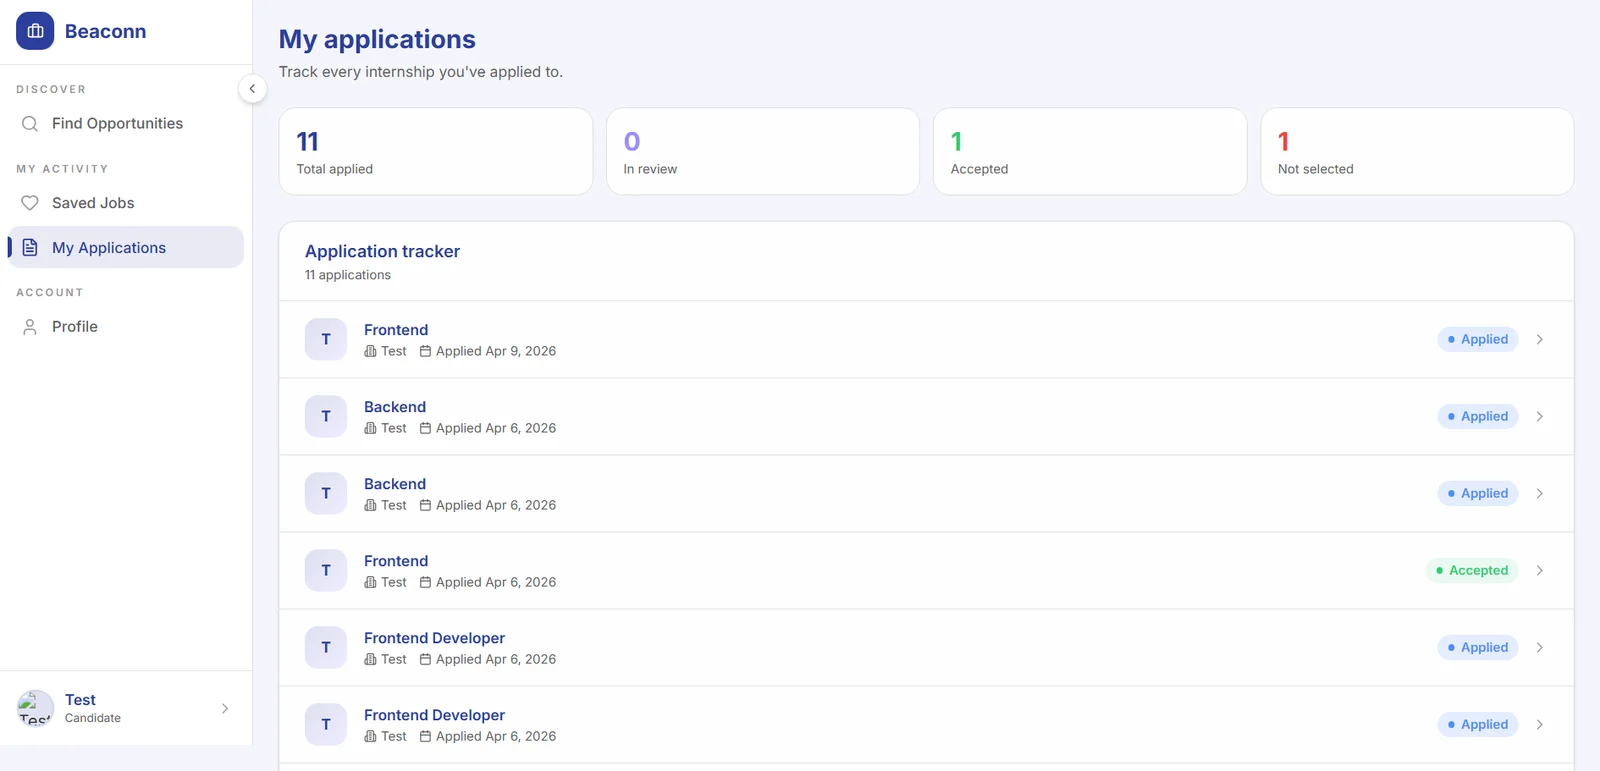
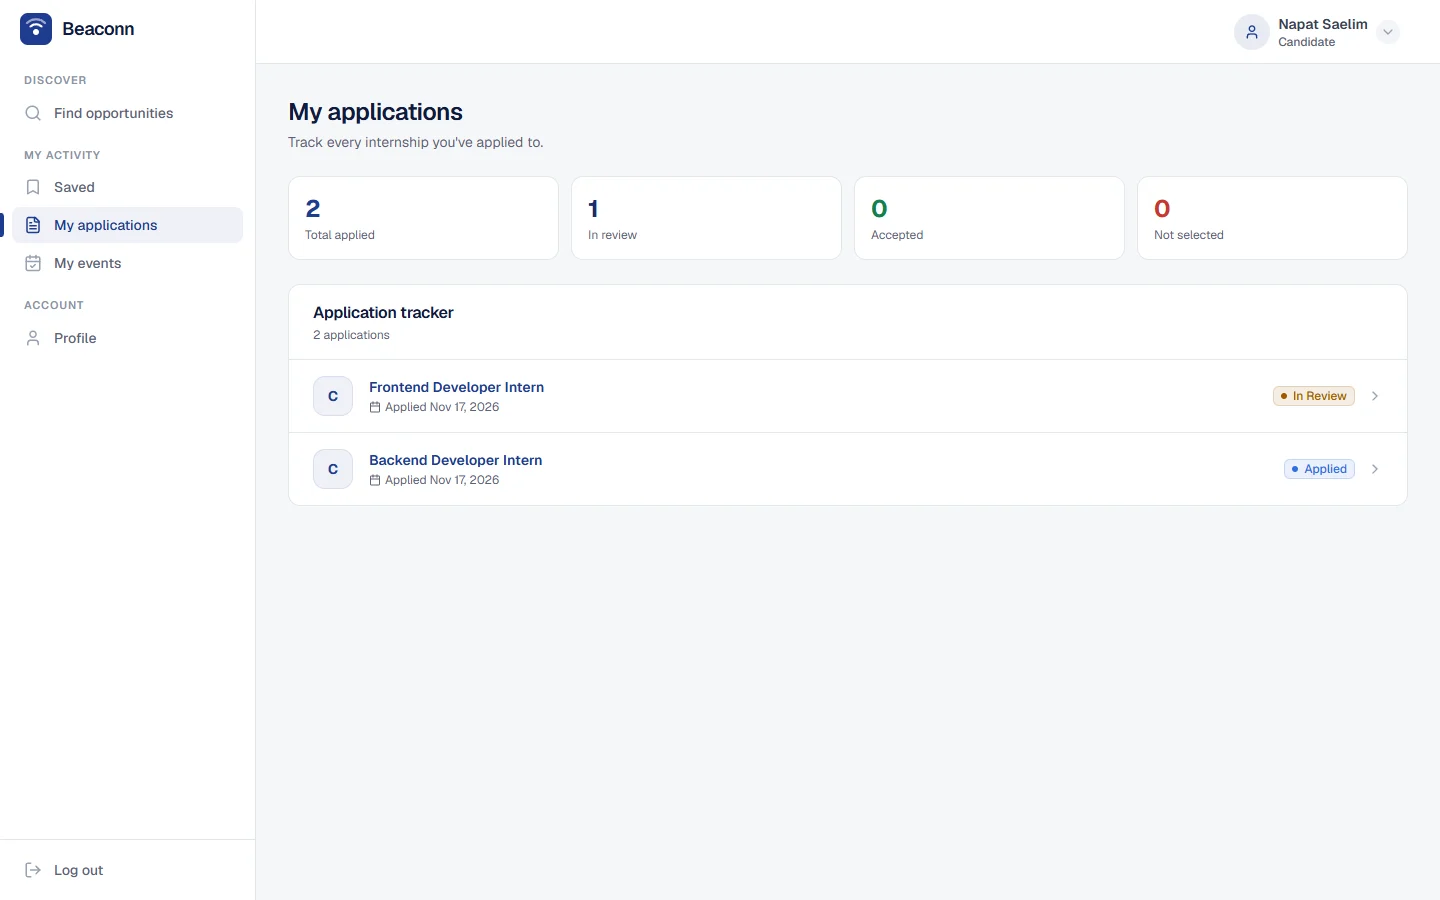
Update Beaconn screenshots to the redesigned live site

diff --git a/src/components/UIUXProjects.tsx b/src/components/UIUXProjects.tsx
@@ -22,12 +22,12 @@ import preciseWidgetStates from "../assets/uiux/precise-widget-states.webp";
 import preciseWidgetConfig from "../assets/uiux/precise-widget-config.webp";
 import precisePrototype from "../assets/uiux/precise-prototype.webp";
 import beaconnLanding from "../assets/uiux/beaconn-landing.webp";
-import beaconnSignup from "../assets/uiux/beaconn-signup.webp";
 import beaconnFind from "../assets/uiux/beaconn-find-internships.webp";
-import beaconnJob from "../assets/uiux/beaconn-job-details.webp";
+import beaconnEvents from "../assets/uiux/beaconn-events.webp";
+import beaconnSaved from "../assets/uiux/beaconn-saved.webp";
 import beaconnApplications from "../assets/uiux/beaconn-applications.webp";
 import beaconnEmployer from "../assets/uiux/beaconn-employer-dashboard.webp";
-import beaconnManageJobs from "../assets/uiux/beaconn-manage-jobs.webp";
+import beaconnManageEvents from "../assets/uiux/beaconn-manage-events.webp";
 
 type ViewMode = "desktop" | "mobile";
 
@@ -179,43 +179,43 @@ const projects: UIUXProject[] = [
             name: "Landing",
             desktop: beaconnLanding,
             caption:
-               "Says what Beaconn is in one line, with a live internship spotlight to show the product straight away.",
+               "Says what Beaconn does in one line, with live counts and a preview built from real listings.",
          },
          {
-            name: "Sign up",
-            desktop: beaconnSignup,
-            caption:
-               "One sign-up form for both roles: choose Candidate or Organization first, and the platform adapts from there.",
-         },
-         {
-            name: "Find internships",
+            name: "Internships",
             desktop: beaconnFind,
             caption:
-               "Student view. Search and filters by work mode and category sit at the top, with internships and events one tab apart.",
+               "Student view. A Coming up strip for the next event and deadline, then internships with stipend, mode and deadline at a glance.",
          },
          {
-            name: "Job details",
-            desktop: beaconnJob,
+            name: "Events",
+            desktop: beaconnEvents,
             caption:
-               "Student view. Role details on the left, and applying, resume upload and saving for later on the right.",
+               "Student view. Calendar date stubs and a seats-left bar, so it is clear when an event is and whether there is still room.",
+         },
+         {
+            name: "Saved",
+            desktop: beaconnSaved,
+            caption:
+               "Student view. Saved internships and events in one place, ready to apply or register later.",
          },
          {
             name: "My applications",
             desktop: beaconnApplications,
             caption:
-               "Student view. Every application and its status in one tracker, so students don't need follow-up emails.",
+               "Student view. Every application and its status in one tracker, so students do not need follow-up emails.",
          },
          {
             name: "Employer dashboard",
             desktop: beaconnEmployer,
             caption:
-               "Organisation view. Key numbers with weekly change, plus the latest applicants and active roles.",
+               "Organisation view. Real numbers with weekly change, the latest applicants and each role's deadline and applicant count.",
          },
          {
-            name: "Manage jobs",
-            desktop: beaconnManageJobs,
+            name: "Manage events",
+            desktop: beaconnManageEvents,
             caption:
-               "Organisation view. Every listing with its status and applicant count, and quick edit, review and delete actions.",
+               "Organisation view. Every posted event with its registrations, and quick edit, close and delete actions.",
          },
       ],
       notes: [
@@ -229,11 +229,11 @@ const projects: UIUXProject[] = [
          },
          {
             title: "Everything tracked in one place",
-            text: "Applications, saved jobs and event registrations each have their own page, with clear statuses instead of guesswork.",
+            text: "Saved internships and events, applications and event registrations each have a page, with clear statuses instead of guesswork.",
          },
          {
             title: "Built to be clear, not busy",
-            text: "A calm blue palette, lots of white space and consistent cards keep a data-heavy platform easy to scan.",
+            text: "One navy for actions, neutral greys for everything else and colour only for status and deadlines keep a data-heavy platform easy to scan.",
          },
          {
             title: "Designed and built end to end",
